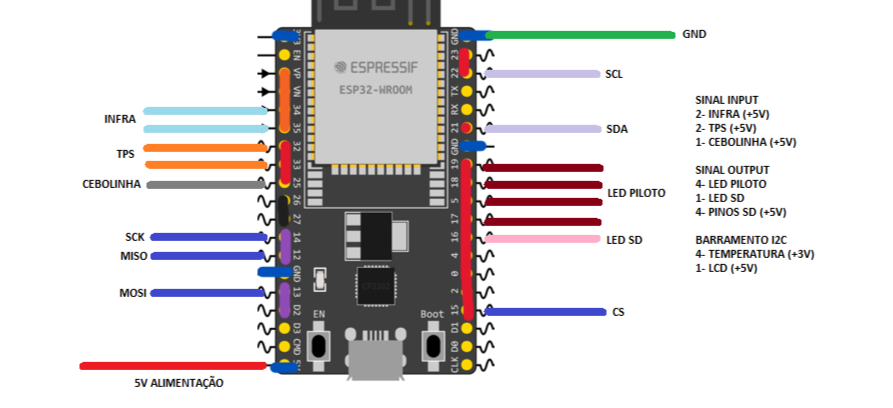
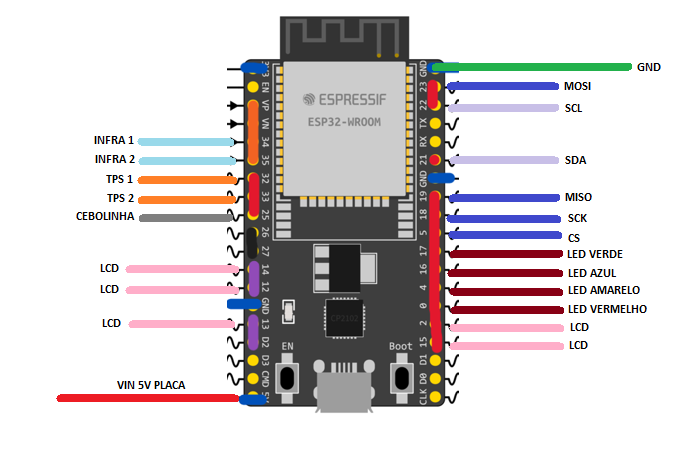
projeto

diff --git a/src/main.cpp b/src/main.cpp
@@ -1,7 +1,7 @@
 #include <Arduino.h>
 #include <BluetoothSerial.h>
 #include <esp_system.h>
-// #include <LiquidCrystal_I2C.h>
+#include <LiquidCrystal.h>
 #include <Wire.h>
 #include <SPI.h>
 #include <SD.h>
@@ -12,10 +12,10 @@ char valorRecebido;       // Variável para armazenar o valor recebido
 //-----------------------------
 
 // Led Piloto
-#define LED_vermelho 19 // Até 100% do TPS
-#define LED_azul 18     // Até 75% do TPS
-#define LED_azul2 5     // Até 50% do TPS
-#define LED_verde 17    // Até 25% do TPS
+#define LED_vermelho 0 // Até 100% do TPS
+#define LED_azul 4     // Até 75% do TPS
+#define LED_azul2 16   // Até 50% do TPS
+#define LED_verde 17   // Até 25% do TPS
 //-----------------------------
 
 // TPS 1
@@ -34,12 +34,13 @@ int outputVeTPS = 0;
 //-----------------------------
 
 // Cartão SD
-#define SD_CS_PIN 15
-#define LED_BUILTIN 16
+const int CS = 5;
+String dataMessage;
+File myFile;
 //-----------------------------
 
 // Cebolinha
-#define CEBOLINHA 25
+const int CEBOLINHA 25  // Pino do sensor
 int sensorCEBOLINHA = 0; // Variável para armazenar o valor lido do sensor
 //-----------------------------
 
@@ -49,14 +50,17 @@ int sensorCEBOLINHA = 0; // Variável para armazenar o valor lido do sensor
 float velocidade1 = 0.0;
 float velocidade2 = 0.0;
 float velocidade = 0.0;
-const float raio = 0.3; // Raio da roda em metros
+const float raio = 0.21; // Raio da roda em metros
+//-----------------------------
+
+// LCD
+LiquidCrystal lcd(2, 15, 14, 12, 13);
 //-----------------------------
 
 float speed(int pin)
 {
     int Time;
-    int lasTime;
-    int difference;
+    int ativado = 0;
     int lapCount = 0;
     float rpm = 0;
     float velocidade = 0.0;
@@ -66,49 +70,82 @@ float speed(int pin)
     if (digitalRead(pin) == HIGH) // O sensor indentifica apenas preto e branco, logo, quando o sensor detecta preto, o valor é HIGH
     {
         Time = millis();
-        difference = Time - lasTime;
-        if (difference > 100)
+        ++ativado;
+        if (ativado == 12)
         {
             lapCount++;
             rpm = (lapCount * 60000) / Time;
             velocidade = ((rpm * 2 * 3.14 * raio) / 60) * 3.6; // Velocidade em km/h
-            lasTime = Time;
         }
     }
     return velocidade;
 }
 
+void WriteFile(const char *path, const char *message)
+{
+    myFile = SD.open(path, FILE_APPEND);
+    if (myFile)
+    {
+        myFile.println(message);
+        myFile.close();
+    }
+    else
+    {
+        Serial.println("erro ao abrir o arrquivo");
+    }
+}
+
 void setup()
 {
     SerialBT.begin("esp32"); // Nome do dispositivo Bluetooth
+    Serial.begin(115200);
+    while (!Serial)
+        delay(10);
 
-    SPI.begin(); // Inicializa a comunicação SPI para o cartão SD
+    Serial.println("Iniciando SD card...");
+    Serial.println("\n==============================================");
+    Serial.print("MOSI: ");
+    Serial.println(MOSI);
+    Serial.print("MISO: ");
+    Serial.println(MISO);
+    Serial.print("SCK: ");
+    Serial.println(SCK);
+    Serial.print("CS: ");
+    Serial.println(SS);
+    Serial.println("==============================================\n");
+    Serial.println("");
+    delay(100);
 
-    // Inicializa o cartão SD com o pino CS especificado
-    if (!SD.begin(SD_CS_PIN))
+    Serial.println("Iniciando SD card...");
+    if (!SD.begin(CS))
     {
-        Serial.println("Erro ao inicializar o cartão SD");
-        return;
+        Serial.println("SD card falhou!");
+        while (1)
+        {
+            delay(10);
+        }
     }
-    Serial.println("Cartão SD inicializado com sucesso");
+    Serial.println("SD card inicialização completa.");
+
+    // Create a header in the file
+    WriteFile("/data.txt", "TPS1, TPS2, CEBOLINHA, VELOCIDADE, TEMP1, TEMP2, TEMP3, TEMP4 \r\n");
 
     // Inicializando os pinos dos LEDs
     pinMode(LED_vermelho, OUTPUT);
     pinMode(LED_azul, OUTPUT);
     pinMode(LED_azul2, OUTPUT);
     pinMode(LED_verde, OUTPUT);
-    pinMode(LED_BUILTIN, OUTPUT);
 
-    pinMode(CEBOLINHA, INPUT); // Pino para ler o sinal no sensor de pressão
-    pinMode(infra1, INPUT);    // Pino para ler o sinal no coletor do fototransistor
-    pinMode(infra2, INPUT);    // Pino para ler o sinal no coletor do fototransistor
+    pinMode(infra1, INPUT); // Pino para ler o sinal no coletor do fototransistor
+    pinMode(infra2, INPUT); // Pino para ler o sinal no coletor do fototransistor
+
+    // Inicializando o LCD
+    lcd.begin(13, 2);
+    lcd.print("Velocidade:");
 }
 
 void loop()
 {
-    // Cria data.txt para armazenar os dados
-    File dataFile = SD.open("/data.txt", FILE_WRITE);
-
     // Caso seja necessário reiniciar o ESP32
     valorRecebido = (char)SerialBT.read();
     if (valorRecebido == '1')
@@ -132,14 +169,31 @@ void loop()
     sensorTPS2 = analogRead(TPS2);
     sensorCEBOLINHA = analogRead(CEBOLINHA);
 
-    // Verificar se os valores estão dentro da margem de 5%
-    if (abs(sensorTPS1 - sensorTPS2) <= 0.10 * sensorTPS1)
+    // Verificar se os valores estão dentro da margem de 1%
+    if (abs(sensorTPS1 - sensorTPS2) <= 0.01 * sensorTPS1)
     {
         // Mapeando o valor do sensor para o valor do led, verificar amplitude do TPS
         outputVeTPS = map(sensorTPS1, 0, 1023, 0, 255);
         outputATPS = map(sensorTPS1, 1023, 2046, 0, 255);
         outputA2TPS = map(sensorTPS1, 2046, 3069, 0, 255);
         outputVTPS = map(sensorTPS1, 3069, 4095, 0, 255);
+
+        // Controlando a taxa de variação dos LEDs
+        if (sensorTPS1 <= 1023)
+        {
+            outputATPS = 0;
+            outputA2TPS = 0;
+            outputVTPS = 0;
+        }
+        else if (sensorTPS1 <= 2046)
+        {
+            outputA2TPS = 0;
+            outputVTPS = 0;
+        }
+        else if (sensorTPS1 <= 3069)
+        {
+            outputVTPS = 0;
+        }
 
         // Mudando a intensidade do led
         analogWrite(LED_vermelho, outputVTPS);
@@ -149,13 +203,21 @@ void loop()
     }
     else
     {
-        // Caso os valores estejam fora da margem de 10% apenas o led vermelho é aceso (100% do TPS)
-        Serial.print("\nOs valores dos sensores estão fora da margem de 10%");
+        // Caso os valores estejam fora da margem de 1% apenas o led vermelho é aceso (100% do TPS)
+        Serial.print("\nOs valores dos sensores estão fora da margem de 1%");
         analogWrite(LED_vermelho, 255);
         analogWrite(LED_azul, 0);
         analogWrite(LED_azul2, 0);
         analogWrite(LED_verde, 0);
     }
+
+    //-----------------------------
+
+    // Exibir a velocidade no LCD
+    lcd.setCursor(0, 1);
+    lcd.print("          "); // Limpar a linha
+    lcd.setCursor(0, 1);
+    lcd.print(velocidade); // Exibir a velocidade
 
     //-----------------------------
 
@@ -170,23 +232,13 @@ void loop()
     Serial.println(velocidade);
 
     // Gravando os dados no cartão SD
-    if (dataFile)
-    {
-        dataFile.print("\nTPS1 = ");
-        dataFile.println(sensorTPS1);
-        dataFile.print("\nTPS2 = ");
-        dataFile.println(sensorTPS2);
-        dataFile.print("\nCEBOLINHA = ");
-        dataFile.println(sensorCEBOLINHA);
-        dataFile.print("\nVelocidade = ");
-        dataFile.println(velocidade);
-        dataFile.close();
-        Serial.println("Dados gravados com sucesso");
-        digitalWrite(LED_BUILTIN, HIGH);
-    }
-    else
-    {
-        Serial.println("Erro ao abrir o arquivo");
-    }
+    dataMessage = String(sensorTPS1) + "," + String(sensorTPS2) + "," + String(sensorCEBOLINHA) + "," + String(velocidade) + "\r\n";
+    Serial.print("Salvando Arquivos: ");
+    Serial.println(dataMessage);
+
+    WriteFile("/data.txt", dataMessage.c_str());
+    // myFile.println(data);
+
+    myFile.close();
     delay(150);
 }
